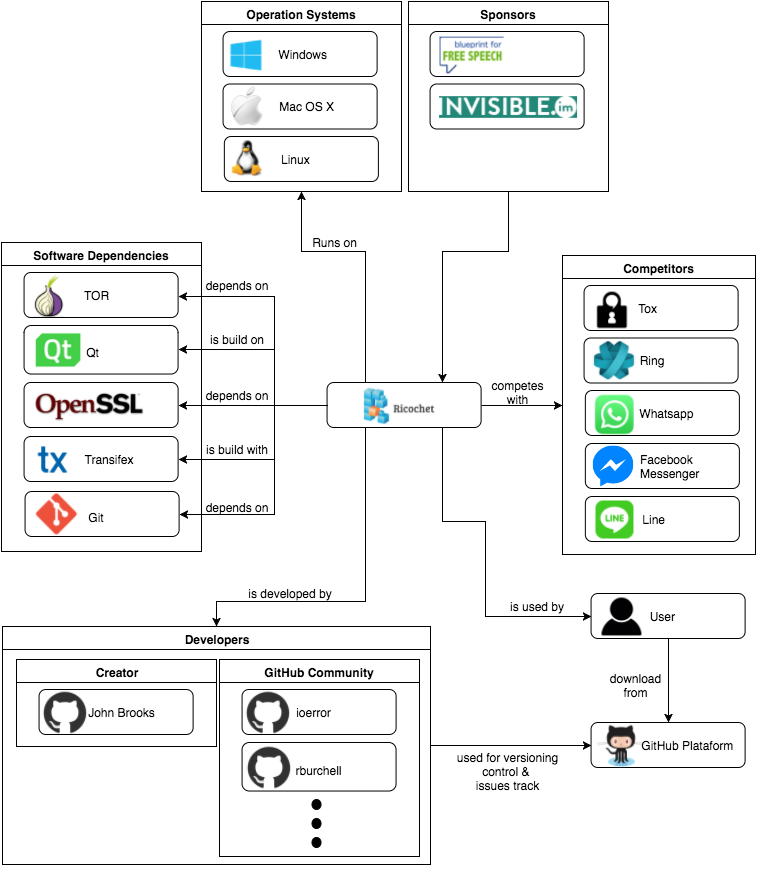
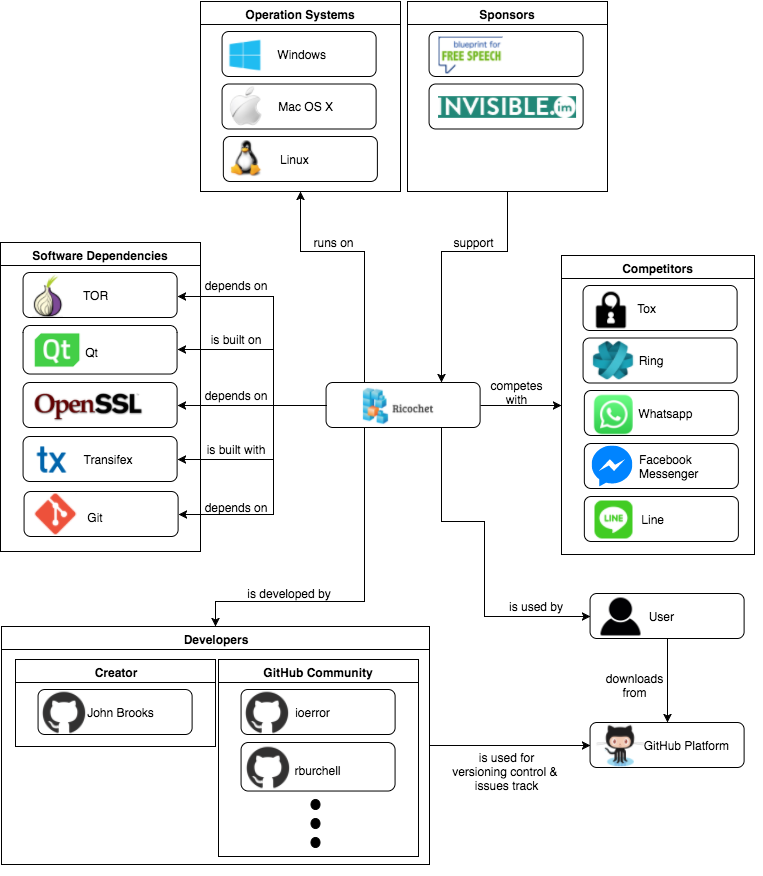
Grammar revision

diff --git a/Ricochet.md b/Ricochet.md
@@ -4,69 +4,77 @@ By [Alberto Passini](https://github.com/AlbertoPassini), [Amanda Fernandes](http
 ![Ricochet Logo](images/ricochet.png)
 
 *Ricochet is an instant messenger tool that deals with the core problem of metadata.
-The concept of this IM is to message without any servers in the middle. Meaning, without trusting your data to anything so it can forward your messages to your contacts.*
+The concept of this IM is to message without any servers in the middle. Ricochet accomplishes this by not trusting your data to any third party software, whenever your messages are forward to your contacts.*
 
 ### Table of Contents
+1. [Introduction](#introduction)
+  1. [Main Features](#main_features)
+  2. [Benefits and warnings](#benefits_warnings)
+2. [Example2](#example2)
+3. [Third Example](#third-example)
 
+### Introduction <a name="introduction"></a>
+Created by John Brooks in 2010, Ricochet (previously Torsion) was a program for encrypted instant messaging that uses TOR hidden services for the protected transmission of communications. However, it only got users' attention in 2014, after Edward Snowden’s revelations about the government’s intrusive surveillance activities.
 
-### Introduction
-Created by John Brooks in 2010, Ricochet (previously Torsion) was a program for encrypted instant messaging that uses TOR hidden services for the protected transmission of communications. However, it only got user's attention in 2014, after Edward Snowden’s revelations about the government’s intrusive surveillance activities.
-
-To achieve true peer-to-peer connectivity, the hard work is done by a hidden service architecture named TOR. The user’s Ricochet address (i.e. `ricochet:rs7ce36jsj24ogfw`) represents a public key and a hidden service, and through TOR peers can ask to connect to you. Both sides make an anonymous connection to a rendezvous relay, and messages are sent through that connection. The address identifies a public key, which encrypts all of that communication.
+To achieve true peer-to-peer connectivity, the hard work is done by a hidden service architecture named TOR. The user’s Ricochet address (`ricochet:rs7ce36jsj24ogfw`) represents a public key and a hidden service, and through TOR peers can ask to connect to you. Both sides make an anonymous connection to a rendezvous relay, and messages are sent through that connection. The address identifies a public key, which encrypts all of that communication.
 
 The project was developed using C++ and Qt, a cross platform software. The interface was built with QML, a declarative UI language derived from javascript.
-In this chapter, the insights of the Ricochet project are given. We will give some background on the different stakeholders and architectural view and perspectives.
 
-#### Main Features
-Ricochet is an experimental kind of instant messaging that doesn't trust anyone with your identity, your contact list, or your communications.
-* You can chat without exposing your identity (or IP address) to anyone
-* Nobody can discover who your contacts are or when you talk (metadata-free)
+In this chapter, we will provide insights into the Ricochet project's architectural perspectives, and give background on the different stakeholders.
+
+#### Main Features <a name="main_features"></a>
+Ricochet is an experimental type of instant messaging that does not trust anyone with your identity, your contact list, or your communications.
+
+* You can chat without exposing your identity (or IP address) to anyone.
+* Nobody can discover who your contacts are or when you talk (metadata-free).
 * There are no servers or operators that could be compromised, exposing your information.
-* It's cross-platform and easy for non-technical users.
+* It is cross-platform and easy for non-technical users.
 
-Similar to any instant messaging application, Ricochet has on the right a list of your contacts and their status. As for the left, and majority part of the window, the conversation with a particular contact is shown. the connection between the application and TOR is given at the beginning, when the user opens Ricochet.
+Similar to any instant messaging application, Ricochet has on the right a list of your contacts and their statuses. As for the left, the majority part of the window, the conversation with a particular contact is shown. The connection between the application and TOR is displayed at the beginning, when the user opens Ricochet.
 
-The figure below illustrates the software working, plus the windows Add Contact and Settings opened for visualization.
+The figure below illustrates the software working, plus the windows "Add Contact" and "Settings" opened for visualization.
 
 ![Features of Ricochet application](images/app_features.png)
 Figure 01: Features of Ricochet application
 
 
-By clicking at the `+` button, other Ricochet users can be added. With that, a new window will appear (1) Add Contacts, as shown in Figure 01. The user’s Ricochet ID appears at the top of the window, this allow others to add you as a contact. In the ID field, the contact’s Ricochet ID, whom you wish to add, must be entered. The name field is the name you choose for your contact and the message field is optional. However, it is useful to let the contact to know who is the person requesting to connect, since the app will only show the Ricochet ID.
+By clicking the `+` button, other Ricochet users can be added. For that, a new window will appear: (1) "Add Contacts", as shown in Figure 01. The user’s Ricochet ID appears at the top of the window; this allow others to add you as a contact. In the ID field, the Ricochet ID of the contact you wish to add must be entered. The name field is the name you choose for your contact and the message field is optional. However, it is useful to let the contact to know who is the person requesting to connect, since the app will only show the Ricochet ID.
 
-When your contact comes online, they will see a new window with your Ricochet ID and your message, if you chose to give one. They will not know who you are unless you have told them using a different medium. The added contact will have the option to accept or refuse your request to connect. If they reject the message, you will not be able to see that their status nor be able to communicate with them using Ricochet. Once your contact accepts your message, and if they are online, you will be able see them as online, and will be able to start a new conversation with them.
+When your contact comes online, they will see a new window with your Ricochet ID and your message, if you chose to give one. They will not know who you are unless you have told them using a different medium. The added contact will have the option to accept or refuse your request to connect. If they reject the message, you will not be able to see their status nor be able to communicate with them using Ricochet. Once your contact accepts your message, and if they are online, you will be able see them as online, and will be able to start a new conversation with them.
 
-In case the IM window is closed, the conversation history will be gone. When a contact closes Ricochet, the client window will show them as offline.
+In the case that the IM window is closed, the conversation history will be gone. When a contact closes Ricochet, the client window will show them as offline.
 
-The settings window can be used to change the application configuration, besides managing contacts.
+The "Settings" window can be used to change the application configuration, along with managing contacts.
 
 
-#### Benefits and warnings
-Some of the benefits about the privacy provided by Ricochet:
-* Users are not personally identifiable, neither has IP addresses or physical locations revealed because of TOR.
+#### Benefits and Warnings
+Some of the benefits of the privacy provided by Ricochet:
+* Because of TOR, users are not personally identifiable; neither has IP addresses or physical locations revealed.
 * Message content is cryptographically authenticated and private.
-* There is no need to register anywhere in order to use Ricochet, particularly with a fixed server.
-* Contact list information is stored locally, and it would be very difficult for passive surveillance techniques to determine whom you’re chatting with.
+* There is no need to register anywhere in order to use Ricochet, particularly not with a fixed server.
+* Contact list information is stored locally, and it would be very difficult for passive surveillance techniques to determine whom you are chatting with.
 * Ricochet does not save chat history. When a conversation is closed, the chat log is not recoverable.
-* The use of Tor hidden services prevents network traffic from ever leaving the Tor network, thereby preserving anonymity and complicating passive network surveillance.
-* Ricochet is a portable application, users do not need to install any software to use Ricochet. Ricochet connects to the Tor network automatically.
+* The use of TOR hidden services prevents network traffic from ever leaving the Tor network, thereby preserving anonymity and complicating passive network surveillance.
+* Ricochet is a portable application; users do not need to install any software to use Ricochet. Ricochet connects to the TOR network automatically.
 
-Even though Ricochet presents a secure connection and cryptographed chat, the following warnings must be take into consideration:
+Even though Ricochet presents a secure connection and cryptographed chat, the following warnings must be taken into consideration:
+
 * An already-compromised computer system will typically defeat the privacy protections that Ricochet offers, such as a keystroke logging malware.
-* Even though Ricochet uses TOR, other applications will not be using Tor unless you’ve independently set up additional TOR services on your computer.
-* Active and passive surveillance techniques can still tell if you’re using the Internet, and when, but not necessarily what you’re doing on the Internet.
+* Even though Ricochet uses TOR, other applications will not be using TOR unless you have independently set up additional TOR services on your computer.
+* Active and passive surveillance techniques can still tell if you are using the Internet, and when, but not necessarily what you are doing on the Internet.
 * Since a Ricochet user does not register or log in anywhere to use the application, it is important to implement layered physical security, including disk encryption, to protect Ricochet.
-* Tails Linux users, and other live operating systems users, can optionally backup Ricochet to zero-knowledge cloud services such as SpiderOak, or on a personally owned USB drive (ideally encrypted).
+* Tails Linux users, and other live operating systems users, can optionally back up Ricochet to zero-knowledge cloud services such as SpiderOak, or on a personally owned USB drive (ideally encrypted).
 
 John Brooks, main creator of Ricochet, once made a statement about the risks of anonymity [7]:
 > “Ricochet is an experiment. Security and anonymity are difficult topics, and you should carefully evaluate your risks and exposure with any software.”
 
-### Development team and contributions
-Most of development and contributions are made through github platform. The open source project counts with numerous users that help on its growth. Below, the main contributors and competitors were identified [2].
+### Development Team and Contributions
+Most development and contributions are made through the GitHub platform. The open source project counts on numerous users that help with its growth. Below, the main contributors and competitors are identified [2].
 
 #### Stakeholders
-Development
-John Brooks (@special) <john.brooks@dereferenced.net>
+* Development
+  - John Brooks (@special) <john.brooks@dereferenced.net>
+
 
 * Sponsors
     - Blueprint for Free Speech https://blueprintforfreespeech.net/
@@ -102,43 +110,48 @@ John Brooks (@special) <john.brooks@dereferenced.net>
   - The Grugq
   - Lawrence Eastland - "R" icon
 
+
 * Cryptographic Software
   - Eric Young - (eay@cryptsoft.com)
   - Tim Hudson - (tjh@cryptsoft.com)
 
-An overview of what is around Ricochet is shown below:
+An overview of what has contributed to the creation of Ricochet is shown below:
 
 ![Ricochet Structure](images/ricochet_diagram.png)
 
 #### Competitors
-Many online chats use end-to-end encrypted messages. However, only a few of them focus on a proper secure way to maintain anonymity. Ricochet is one of those projects that deals with the core problem of metadata, but there are also few others to be consider.
+Many online chats use end-to-end encrypted messages. However, only a few of them focus on a proper, secure way of maintaining anonymity. Ricochet is one of those projects that deals with the core problem of metadata, but there are also a few others to be considered.
 
-* **Tox:** this messenger is the main competitor of the application Ricochet. It is a peer-to-peer instant messaging and video calling protocol that offers end-to-end encryption.  Contrary to Ricochet, Tox relies on a Distributed Hash Table for peer discovery and has voice/video calls as a priority.
-* **Ring** - another serverless application, Ring is an open-source SIP-compatible softphone and instant messenger that does not require any central servers. Based on a MVC model, with a daemon and a client communication. The daemon handles all the processing including communication layer (SIP/IAX), audio capture and playback.
-* **Whatsapp, Facebook Messenger and Line** - those applications use a end-to-end to encrypt messages, although they do not focus on anonymity. Line is a proprietary application for instant communications on electronic devices and conduct free VoIP conversations and video conferences, and is was heavily used by countries where censorship exists, like China. The differential of Line is the possibility to create "Hidden Chats", giving the user the ability to set a timer after which messages disappear from both involved devices and Line servers.
+* **Tox:** this messenger is the main competitor of the application Ricochet. It is a peer-to-peer instant messaging and video calling protocol that offers end-to-end encryption.  Contrary to Ricochet, Tox relies on a *Distributed Hash Table* for peer discovery and has voice/video calls as a priority.
 
-It is possible to analyse the comparisons between the applications on the image below. The complete version can be found on the website referenced by [5].
+* **Ring:** another serverless application, Ring is an open-source SIP-compatible softphone and instant messenger that does not require any central servers. Ring is based on a MVC model, with a daemon and a client communication. The daemon handles all the processing, including communication layer (SIP/IAX), audio capture and playback.
+
+* **Whatsapp, Facebook Messenger and Line:** these applications use end-to-end encrypted messages, although they do not focus on anonymity. Line is a proprietary application for instant communications on electronic devices and conducts free VoIP conversations and video conferences. It was heavily used by countries where censorship exists, like China. The major advantage of Line is the possibility to create "Hidden Chats," giving the user the ability to set a timer after which messages disappear from both involved devices and Line servers.
+
+It is possible to analyse the comparisons between the applications with the image below. The complete version can be found on the website referenced by [5].
 
 **TODO put table**
 
-### Releases and possibles improvements
-The program has eight available versions until the present date, October 2016. The main features and new of each release will be discussed shortly in this topic. In the next figure, the additions and deletions per week are shown. The gap between the old project and the beginning of what would became Ricochet, represents the difficulty of retaining and gaining users prior to 2014. After that, between all releases, a lot of features has been added, as is also reflected by the increased size of the project.
+### Releases and Possibles Improvements
+The program has eight available versions as of the present date (October 2016). The main and new features of each release will be discussed shortly in this section. In the next figure, the additions and deletions per week are shown. The gap between the old project and the beginning of what would become Ricochet represents the difficulty of retaining and gaining users prior to 2014. After that, between all releases, a lot of features were added, which is also reflected by the increased size of the project. **TODO reference figure**
 
 ![Ricochet Structure](images/releases.png)
 
-The additions and deletions of the numerous peaks, are shown in this figure. These peaks correspond to the releases of the Ricochet project. The numbered peaks are explained one by one below.
+The peaks of the above figure correspond to the releases of the Ricochet project. The numbered peaks are explained one by one below.
 
 1. **Torsion 1.0.0**:
-This was the very first version of the system and implements a “real-world” of a decentralized and anonymous messaging client for Tor. The last release was on 23 Mar 2014.
+This was the very first version of the system and implemented a “real-world,” decentralized and anonymous messaging client for TOR. The last release was on 23 March 2014.
 
 2. **Torsion 1.0.1**:
-On the website they are grateful to some contributors like HostFat and we found the fixes and features of the program. Same examples are that the security was updated to OpenSSL 1.0.1g, was added an Italian translation, a static Linux build, became possible opened or copied an URL from the chat, the compatibility with older versions of OS X and the display of hidden service state was fixed. Became possible use the system on Linux, OS X and Windows.
+On the website they express gratitude to some contributors like HostFat and delineate the fixes and features of the program.
+The following additions were made: a static Linux build running without dependencies, an Italian translation, a security update to OpenSSL 1.0.1g, possibility to open or copy an URL's from the chat and compatibility with older OS X versions. Additionally, the display of hidden service state was fixed and it became possible to use the system on Linux, OS X and Windows.
 
 3. **Ricochet 1.0.2**:
-This was the first version of the program with the final name ricochet, and the name was suggested for the contributor `@obvio171`. The changes was minimal on this version and some examples of the changes was: some characters pass to be displayed on the correct way in the chat and wass added Spanish translation and some updates on the installations.
-
+This was the first version of the program with the final name Ricochet, which was suggested by the contributor `@obvio171`. The changes were minimal in this version, but some did occur: characters were displayed correctly in the chat, a Spanish translation was added and packages were updated.
+*************
+NOT REVISED
 4. **Ricochet 1.0.3**:
-On this version, we have an excellent improvement on the security with the new version of Tor, that prevent an anonymous attack on users of hidden services. Also, more translations was added like Danish and Brazilian Portuguese and some configurations was change to make the program more flexible, useful, robust and reliable.
+In this version, an excellent improvement on the security was achieved with the update of TOR. This new version prevented the anonymous attack on users of hidden services. Also, more translations was added like Danish and Brazilian Portuguese and some configurations was change to make the program more flexible, useful, robust and reliable.
 
 5. **Ricochet 1.0.4**:
 On this release we have only bugs corrections to fix some things that are commons or not on the system, for an example the error that appears when the program reboots unexpected (“Configuration is already in use”) and some addition in documentation and translations.
@@ -151,23 +164,24 @@ This version includes bugs corrections, some updates and features like choose th
 
 8. **Ricochet 1.1.2**:
 This is the latest version and we can consider that big improvements are made here, like in reliability and stability connections. This can be seen as now that contact users with suspicious names are blocked and it does not allow attempts to connect or disconnected users.
+***************
 
-As seen, the design described is close to the simplest implementation possible. For future improvements, the protocol has the potential to be extended to enable features as, for instance, file transfer or even voice/video streaming. A more advanced use of hidden services can also be implemented and mitigate the risks of publishing a publicly connectable service. Separate services or more elaborated designs can be used to prevent attacks by non-contacts. Also, future development in Tor can improve the cryptography and principles behind hidden services.
+As we see, the design described is close to the simplest implementation possible. For future improvements, the protocol has the potential to be extended to enable features such as file transfer or even voice/video streaming. A more advanced use of hidden services could also be implemented and would mitigate the risks of publishing a publicly connectable service. Separate services or more elaborate designs could be used to prevent attacks by non-contacts. Also, future development in TOR could improve the cryptography and principles behind hidden services.
 
-### Used frameworks and development tools
-The main tools used to make the Ricochet system are Tor, Qt, OpenSSL and Transifex. The backend system is basically written in C++ and the interface in QML. In this section, we will discuss more about each one of the used tools and their importance to the project.
+### Used Frameworks and Development Tools
+The main tools used to make the Ricochet system are TOR, Qt, OpenSSL and Transifex. The backend system is primarily written in C++ and the interface in QML. In this section, we will discuss more each one of the used tools and their importance to the project.
 
 #### TOR
-Tor uses Onion Router as an Internet networking protocol designed to anonymize the data relayed across it. The software makes it possible for users to hide their locations (and IP address), as well as making difficult for any snoops to see the user’s online activity.
+TOR uses Onion Router as an Internet networking protocol designed to anonymize the data relayed across it. The software makes it possible for users to hide their locations (and their IP addresses), as well as making it difficult for any snoops to see the user’s online activity.
 
-Ricochet system uses Tor hidden services to create a connection between users. Tor network runs through the computer servers of thousands of volunteers spread throughout the world. The data is bundled into an encrypted packet when it enters the network, and unlike normal Internet connections, part of the packet's header is removed. The removed part, which contains the addressing information, can be used to gather information about the sender, hence why it is important its removal. Finally, Tor encrypts the rest of the addressing information. The modified and encrypted data packet is then routed through many of these servers to its final destination.
+The Ricochet system uses TOR hidden services to create a connection between users. The TOR network runs through the computer servers of thousands of volunteers spread throughout the world. The data is bundled into an encrypted packet when it enters the network, and unlike normal internet connections, part of the packet's header is removed. The removed part, which contains the addressing information, can be used to gather information about the sender, hence why its removal is important. Finally, TOR encrypts the rest of the addressing information. The modified and encrypted data packet is then routed through many of these servers to its final destination.
 
-A hidden service needs to advertise its existence in the Tor network before clients will be able to contact it. Therefore, the service randomly picks some relays, builds circuits to them, and asks them to act as *introduction points* by telling them its public key. By using a full Tor circuit, it's hard for anyone to associate an introduction point with the hidden server's IP address. While the introduction points and others are told the hidden service's identity (public key), we don't want them to learn about the hidden server's location (IP address).
+A hidden service needs to advertise its existence in the Tor network before clients will be able to contact it. Therefore the service randomly picks some relays, builds circuits to them, and asks them to act as *introduction points* by telling them its public key. By using a full TOR circuit, it is hard for anyone to associate an introduction point with the hidden server's IP address. While the introduction points are told the hidden service's identity (public key), we do not want them to learn about the hidden server's location (IP address).
 
 #### Qt
-QT is a cross-platform application development framework for desktop, embedded and mobile written in C++ and used for creation of an application’s frontend. Qt is not a programming language by its own, therefore QML, Qt Meta Language, was used on Ricochet to design the user interface.
+Qt is a cross-platform application development framework for desktop, embedded and mobile; it is written in C++ and used for creation of an application’s frontend. Qt is not a programming language on its own, therefore QML (Qt Meta Language) was used on Ricochet to design the user interface.
 
-QML is a user interface markup language. It is a JSON-like declarative language for designing user interface–centric applications. Inline JavaScript code handles imperative aspects. QML is mainly used for mobile applications where touch input, fluid animations and user experience are crucial. Elements of this language, shipped with Qt, are a sophisticated set of building blocks, graphical and behavioral. These elements can be combined to build components ranging in complexity from simple buttons and sliders, to complete internet-enabled programs.
+QML is a user interface markup language. It is a JSON-like declarative language for designing user interface–centric applications. Inline JavaScript code handles imperative aspects. QML is mainly used for mobile applications where touch input, fluid animations and user experience are crucial. Elements of this language, shipped with Qt, are a sophisticated set of building blocks, graphical and behavioral. These elements can be combined to build components ranging in complexity from simple buttons and sliders to complete internet-enabled programs.
 
 QML elements can also be seamlessly integrated and extended by C++ components using the Qt framework.
 
